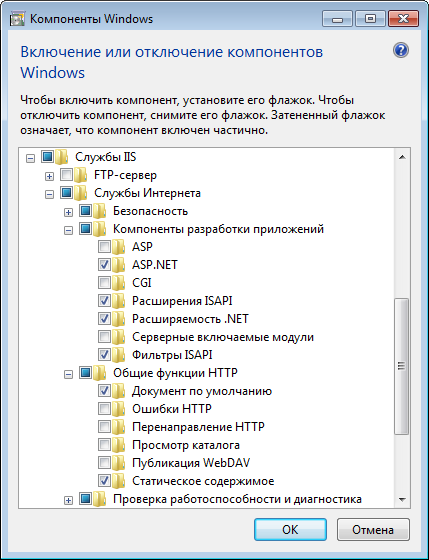
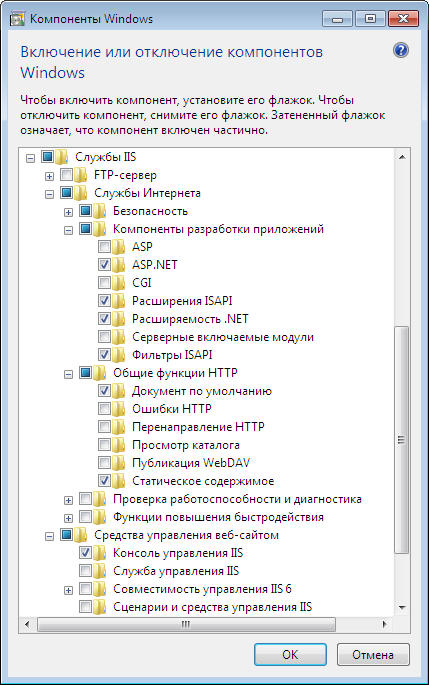
ScadaDoc: update win features images

diff --git a/ScadaDoc/ScadaDoc/content/ru/installation-and-run/software-installation.html b/ScadaDoc/ScadaDoc/content/ru/installation-and-run/software-installation.html
@@ -13,7 +13,7 @@
     <p>Для корректной работы Rapid SCADA необходимо включить определённые компоненты Windows. Перейдите в <em>Панель управления &gt; Программы &gt; Включение или отключение компонентов Windows</em>. Компоненты Microsoft .NET Framework, которые нужно включить, показаны на рис. 1 и 3. Обратите внимание, что для Microsoft .NET Framework <strong>3.5</strong> обязательно должны быть отключены вложенные компоненты Windows Communication Foundation.</p>
     <p>Для корректной работы веб-приложения Вебстанция должны быть установлены определённые компоненты веб-сервера Internet Information Services (IIS). На рис. 2 и 4 показан выбор обязательных для работоспособности веб-приложения компонентов. При установке веб-приложения наличие данных компонентов автоматически проверяется программой-установщиком.</p>
     <p class="sd-article-image">
-        <img src="software-installation-files/win7_features_dotnet_en.png" alt="Компоненты .NET для Windows 7"><br>
+        <img src="software-installation-files/win7_features_dotnet_ru.png" alt="Компоненты .NET для Windows 7"><br>
         Рис. 1. Компоненты .NET для Windows 7
     </p>
     <p class="sd-article-image">
